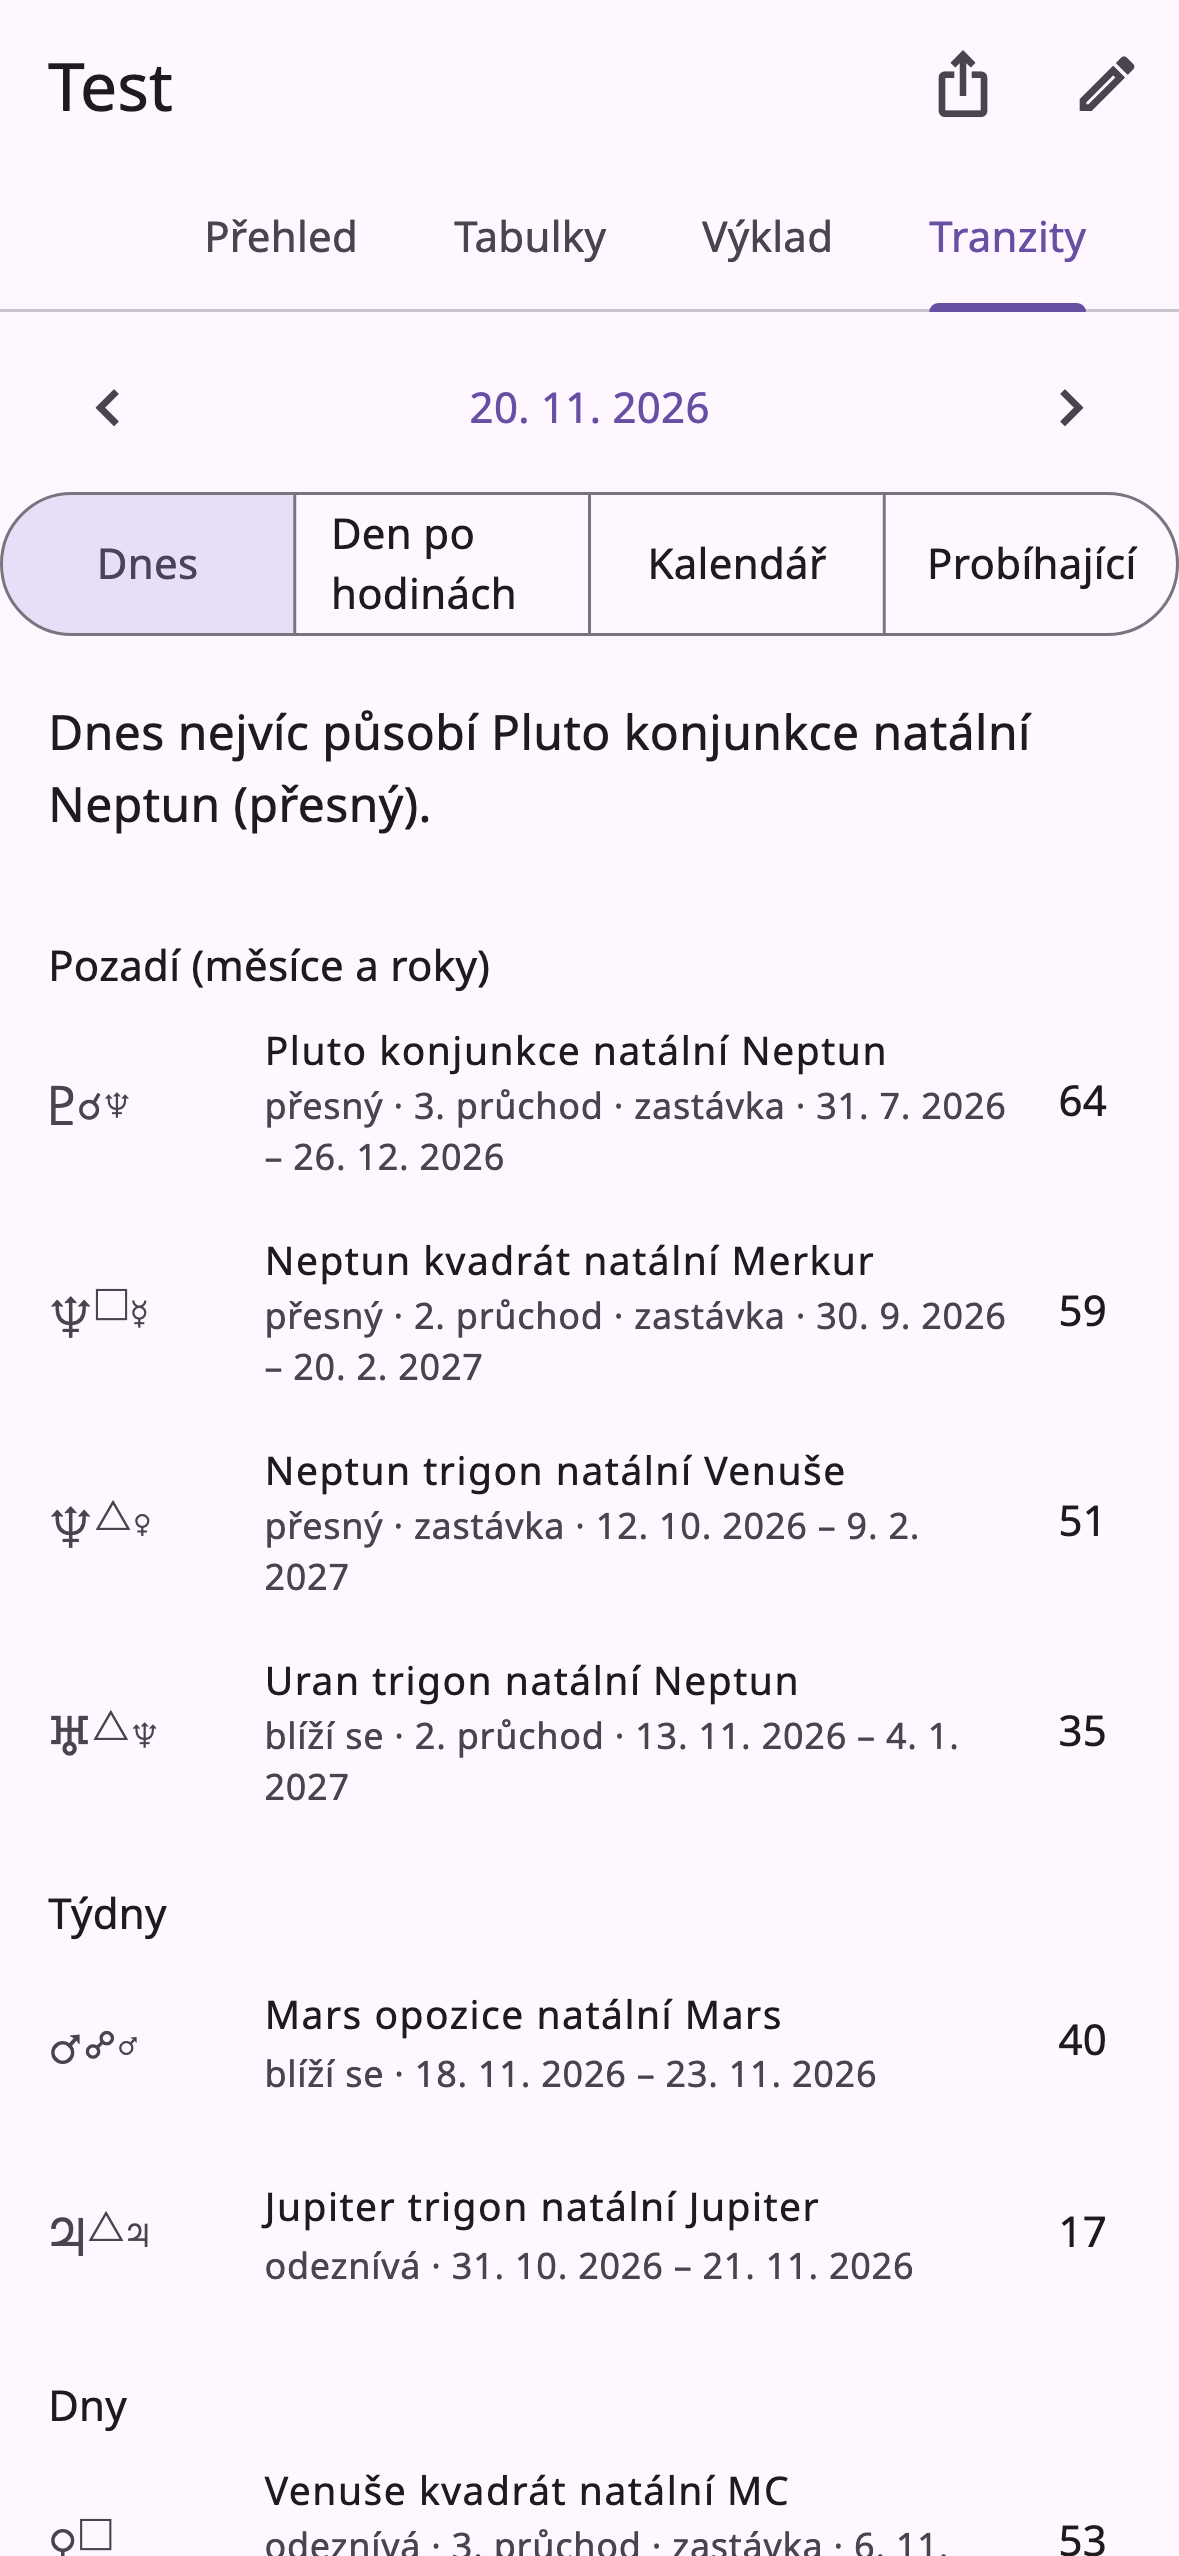
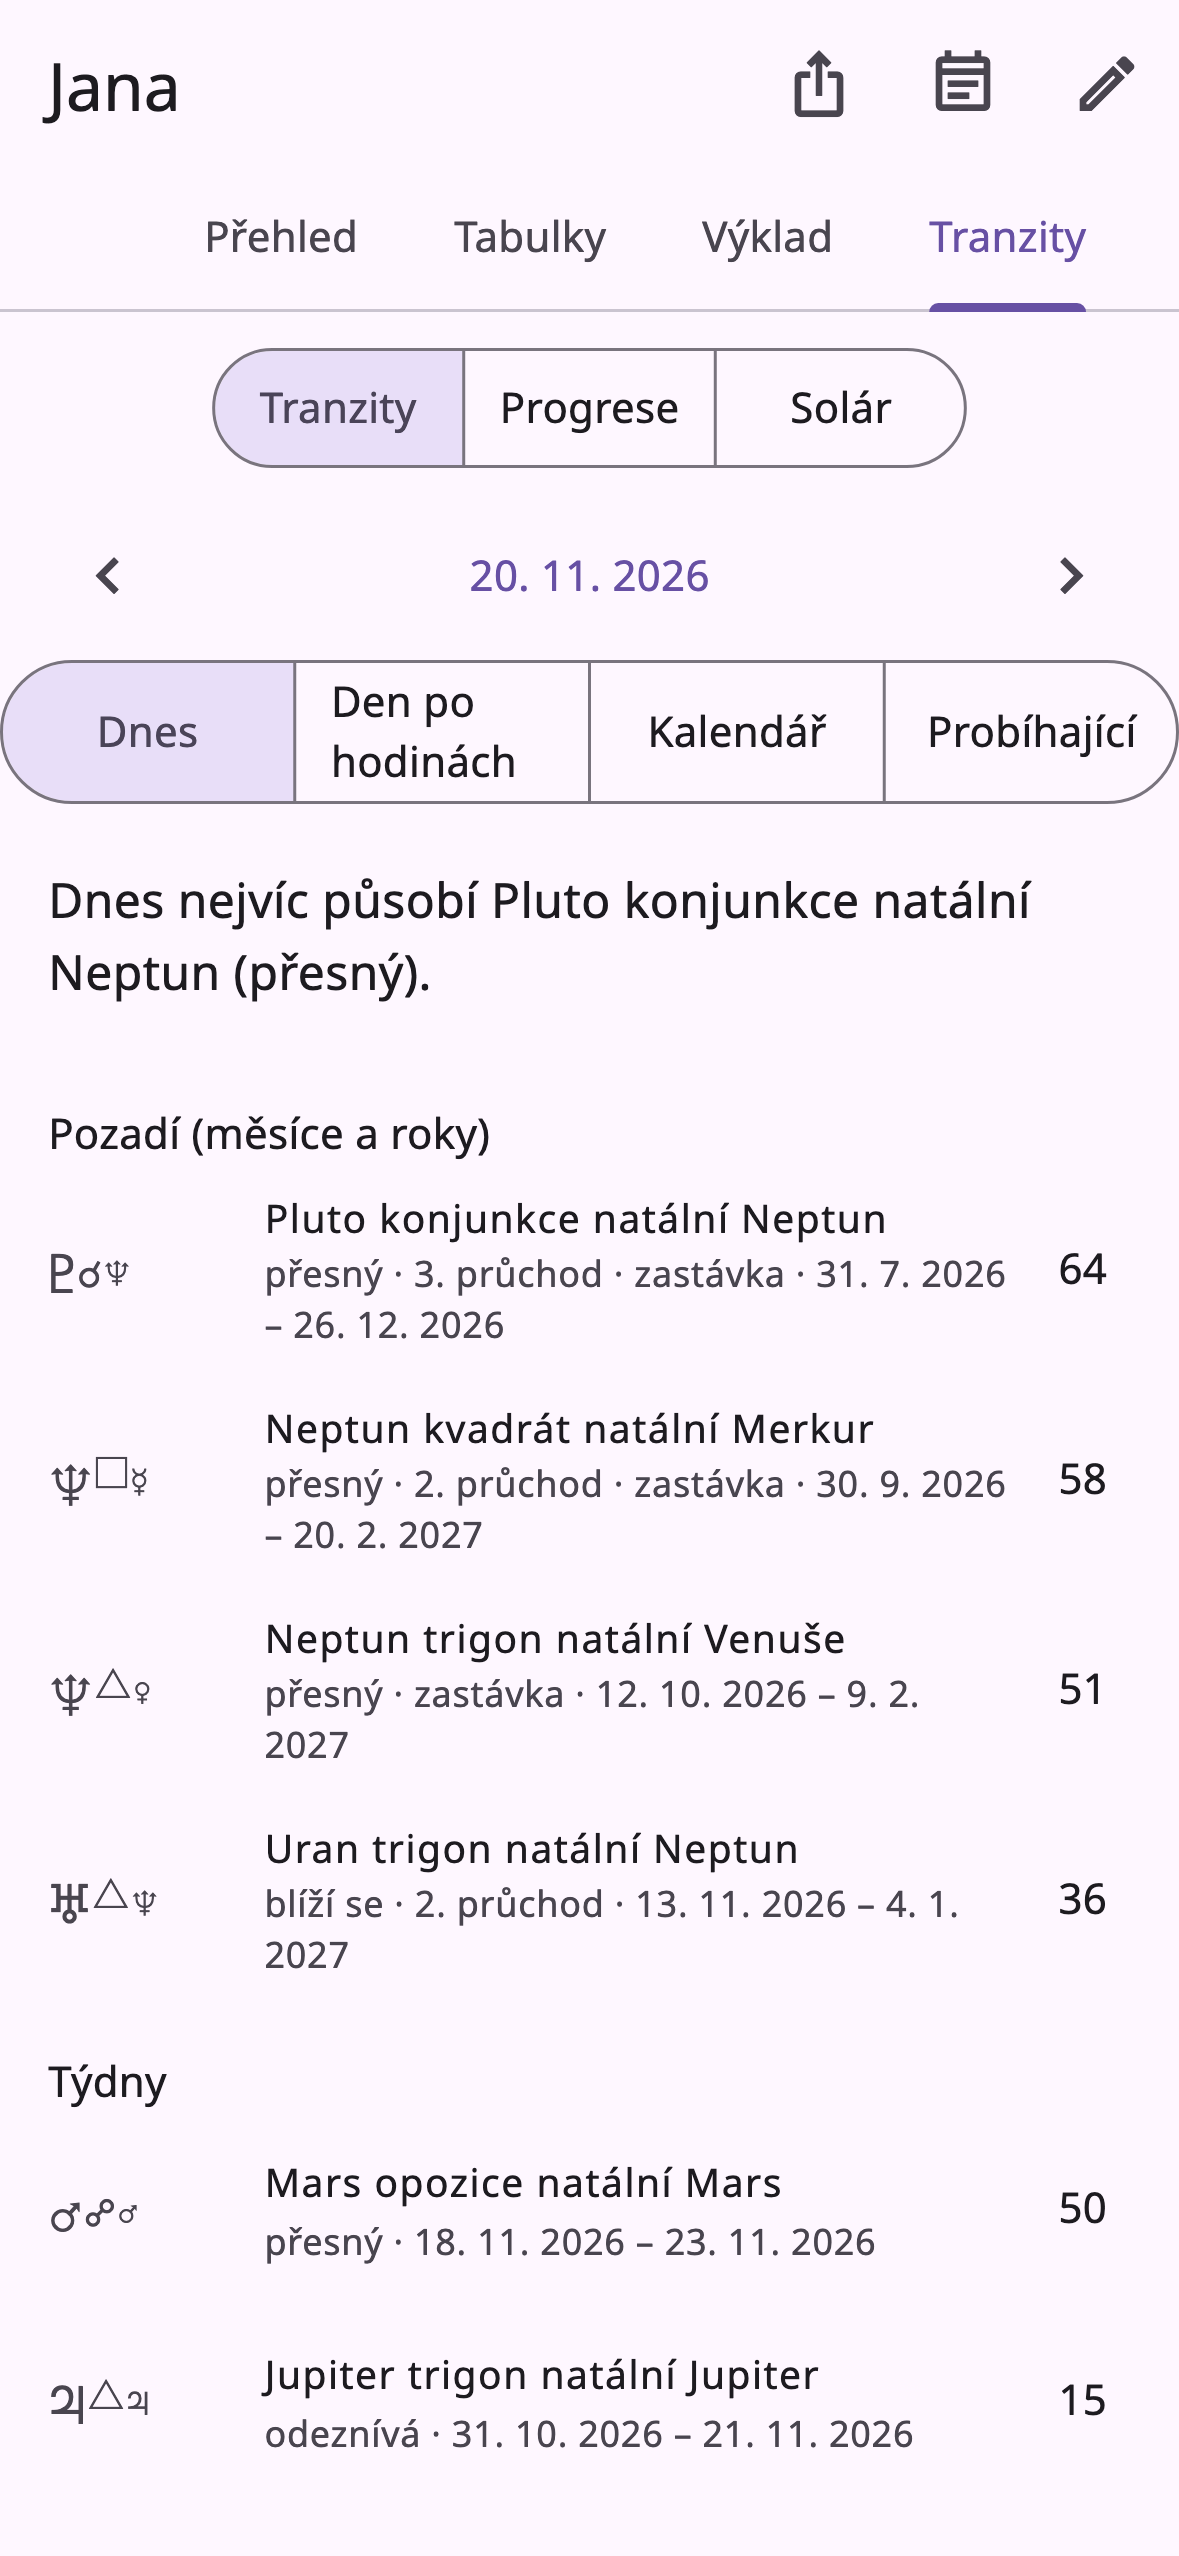
astro: new features (R1–R8, journal, people catalog) and 11 fresh screenshots
The page now covers aspect patterns, fixed stars, Moon and planetary hours,
progressions and solar returns, synastry, election search, horary questions
by Lilly's rules, the prediction journal and the people catalog. Stav says
all texts are written (generated, checked automatically) and the APK is on
the GitHub release; no store listing yet.

Screenshots come from the Astro screens harness (Astro PR #17), fictional
profiles only.

Claude-Session: https://claude.ai/code/session_01RgN3TbQenfjpXSL6M99i7c

diff --git a/apps/astro/meta.md b/apps/astro/meta.md
@@ -27,25 +27,83 @@ hledá offline v databázi zhruba 55 tisíc míst.
 ### Horoskop a výklad
 
 Kolo zvěrokruhu, tabulky poloh, aspektů a důstojností a srovnání dvou
-systémů domů. Výklad jde číst po oddílech, nebo podle témat: povaha,
-vztahy, práce, rodina. Každý text má tři vrstvy: popis, stinnou stránku
-a tradiční těžké významy. Těžká témata, jako nemoc nebo smrt, si každý
-skryje sám a appka pak ukáže jen řádek „Skryto“.
+systémů domů. Appka najde obrazce aspektů, jako velký trigon, T-kvadrát,
+jod nebo draka, a na kole je zvýrazní. Ukáže i konjunkce s 32 stálicemi
+z katalogu Hipparcos. Výklad jde číst po oddílech, nebo podle témat:
+povaha, vztahy, práce, rodina. Každý text má tři vrstvy: popis, stinnou
+stránku a tradiční těžké významy. Těžká témata, jako nemoc nebo smrt, si
+každý skryje sám a appka pak ukáže jen řádek „Skryto“ s odkazem na
+Linku první psychické pomoci 116 123.
 
-### Tranzity
+### Tranzity, progrese a solár
 
 Co se děje dnes, den po hodinách, kalendář a probíhající tranzity:
 kdy začínají, kdy jsou přesné, kolikátý je průchod, zastávky planet
-a síla. „Zeptej se“ ukáže, která postavení vysvětlují zvolený rys
-a jak napjatý byl konkrétní den v porovnání s celým životem.
+a síla. Den po hodinách ukazuje východ a západ Slunce, planetární hodiny,
+Měsíc bez aspektu a jeho vstupy do znamení. Kalendář má fáze Měsíce
+s přesnými časy a zatmění. Počítá se pro místo pobytu, které může být
+jiné než místo narození.
+
+Progrese posouvají horoskop o den za každý rok života a ukazují časovou
+osu se změnami progresního Měsíce a Slunce. Solár je horoskop chvíle,
+kdy se Slunce vrátí na své místo z narození. Počítá se pro bydliště,
+nebo pro místo narození.
+
+### Partnerský horoskop
+
+Dva uložené profily na dvojitém kole: aspekty mezi planetami obou lidí,
+planety v domech toho druhého a výklad. Typ vztahu se volí: partneři,
+rodič a dítě, sourozenci, přátelé, kolegové. Partnerskou vrstvu textů
+appka ukáže jen u partnerů. U dvojčat appka ukáže, čím se jejich horoskopy liší.
+
+### Zeptej se
+
+Appka ukáže, která postavení vysvětlují zvolený rys, a jak napjatý byl
+konkrétní den v porovnání s celým životem.
+
+Horární otázka se čte podle pravidel Williama Lillyho z knihy Christian
+Astrology (1647). Appka spočítá horoskop okamžiku otázky a řekne, co
+podle tradičních pravidel vychází: ano, ano s potížemi, ne, nebo že to
+říct nejde. Uvede důvody
+pro a proti, výhrady, odhad času a u ztracené věci směr. Otázky
+zdraví verdikt nedostanou. Deník otázek si pamatuje, jak to dopadlo,
+a po třiceti uzavřených otázkách ukáže, jak často appka trefila proti
+odpovědi „vždy ano“ a „vždy ne“.
+
+„Najdi termín“ hledá vhodnou chvíli pro svatbu, smlouvu, zahájení
+podnikání, nákup, stěhování, cestu, zkoušku nebo pohovor. Projde až
+90 dní po deseti minutách podle 26 tradičních pravidel elekce, omezí
+hledání na zvolené hodiny a dny a vrátí nejvýš deset oken s důvody
+pro a proti. Okno jde uložit do kalendáře. Termín operace nehledá.
+
+### Deník předpovědí
+
+Každý den jde ohodnotit od −2 do +2. Po 60 dnech appka spočítá, jestli
+hodnocení souvisí s napětím dne podle tranzitů, a stejně viditelně
+řekne i to, že nesouvisí. Slepý test na 90 dní skryje tranzity, dokud
+není den ohodnocený. Večerní připomínka je volitelná a jen v telefonu,
+deník jde vyexportovat do CSV.
+
+### Osobnosti
+
+Katalog 298 veřejně známých lidí, z toho 123 z Česka a Slovenska.
+U každého je spolehlivost času narození a zlomové události s datem
+a pramenem. Ke každé události appka spočítá tranzity toho dne a jak
+neobvyklý den to byl v celém životě. Souhrn přes celý katalog zatím
+ukazuje, že dny zlomových událostí nejsou napjatější než náhodné dny týchž
+životů.
 
 ### Soukromí
 
-Profily jsou šifrované a uložené jen v telefonu. Žádná reklama, žádné
-sledování, nic se neodesílá. Výklad jde vyexportovat do PDF.
+Profily, deník i otázky jsou šifrované a uložené jen v telefonu. Žádná
+reklama, žádné sledování, nic se neodesílá. Výklad jde vyexportovat do
+PDF.
 
 ### Stav
 
-Astro je ve vývoji. Výpočet a obrazovky jsou hotové, české texty výkladu
-právě vznikají. V obchodech zatím není. Zdrojový kód je na
+Astro je ve vývoji. Výpočet i obrazovky jsou hotové a české texty
+výkladu jsou napsané všechny, přes 2 200. Vygeneroval je jazykový model
+podle pravidel projektu a prošly automatickou kontrolou. Android APK je
+ke stažení z vydání na GitHubu, v App Storu ani na Google Play appka
+zatím není. Zdrojový kód je na
 [github.com/lioilsources/Astro](https://github.com/lioilsources/Astro).

diff --git a/docs/screenshots.md b/docs/screenshots.md
@@ -108,6 +108,13 @@ harness renders every language (`SCREENSHOT_LANG`), and those go to App Store Co
 the store has no per-language gallery. `es` and `nl` got their chrome catalogs for it.
 The privacy policy is on GitHub Pages: `https://lioilsources.github.io/behanek/privacy.html`.
 
+**astro** too (11 files in `raw/mobile/ios/`, `NN-<what>.png`, 393×852 @3x). Harness
+`app/test/screens/screens_test.dart` in the Astro repo (Astro PR #17 until merged), tagged `screens` and skipped by default:
+`cd app && flutter test test/screens --run-skipped` writes `run/screens/*.png`, copy them over.
+Fictional profiles (Jana, Petr); transits, hours and the election search start on the day the
+harness runs, so those shots move with the date. The horary shot takes the first moment of
+19. 11. 2026 that gives a "yes" with a timing; the catalog check is the bundled people catalog.
+
 `storyteller` and `audioscanner` also have **no app icon** yet — both still carry the
 default Flutter logo, which is not worth shipping, so they fall back to the store's
 letter tile on purpose.
